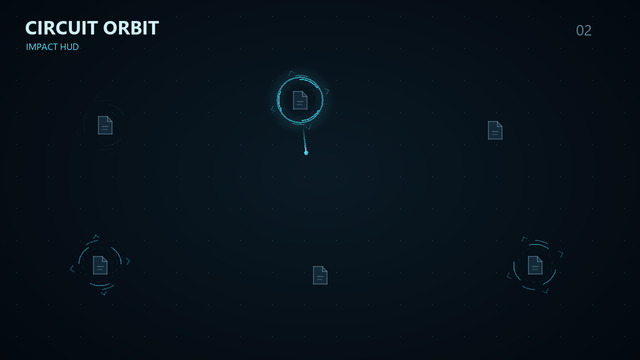
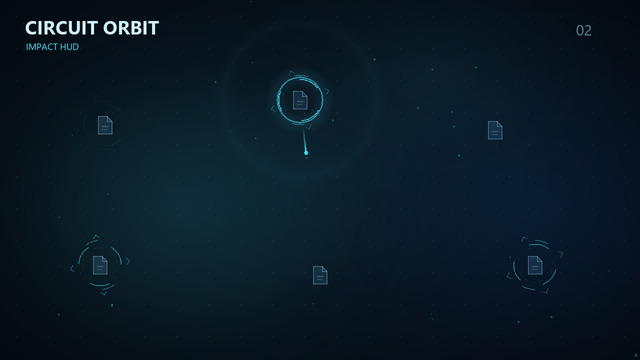
feat: add ambient energy fog particles and impact waves

Changed region(s): [[0.2188, 0.4889, 0.375, 0.6722], [0.8125, 0.55, 0.8438, 0.5806]]

diff --git a/app.js b/app.js
@@ -1,24 +1,33 @@
 (() => {
   'use strict';
-  const E = window.CircuitEngine, canvas = document.querySelector('canvas'), ctx = canvas.getContext('2d');
+  const E = window.CircuitEngine, canvas = document.querySelector('#scene'), ctx = canvas.getContext('2d');
+  const A = window.CircuitAtmosphere, fogCanvas = document.querySelector('#atmosphere'), fogCtx = fogCanvas.getContext('2d');
   const controls = document.querySelector('#controls'), notice = document.querySelector('#notice');
   const params = new URLSearchParams(location.search), preview = params.has('preview'), demo = params.has('demo');
-  const config = { accent: '#49e5ff', speed: 160, glow: 70, trail: 180, circleSize: 100, chargeTime: 1000, persistencePercent: 60, frameRate: 1, monitor: 0, grid: true };
-  const ranges = { speed: [40, 800], glow: [10, 100], trail: [60, 700], circleSize: [40, 200], chargeTime: [300, 2400], persistencePercent: [1, 99], frameRate: [0, 1], monitor: [0, 9] };
+  const config = { accent: '#49e5ff', speed: 160, glow: 70, trail: 180, circleSize: 100, chargeTime: 1000, persistencePercent: 60, frameRate: 1, monitor: 0, grid: true, fogStrength: 45, dustCount: 32, impactStrength: 40 };
+  const ranges = { speed: [40, 800], glow: [10, 100], trail: [60, 700], circleSize: [40, 200], chargeTime: [300, 2400], persistencePercent: [1, 99], frameRate: [0, 1], monitor: [0, 9], fogStrength: [0, 100], dustCount: [0, 70], impactStrength: [0, 100] };
   let rgb = '73,229,255', map = null, system = null, width = 0, height = 0, signature = '', chosen = '';
   let framePending = false, lastDraw = null, nextDraw = 0, collecting = false;
   let collectionTimer = null, collectionDeadline = null, collectionStarted = 0;
+  const field = new A.Atmosphere(1, 1);
+  const makeCanvas = (width, height) => { const image = document.createElement('canvas'); image.width = width; image.height = height; return image; };
+  let sprites = A.createSprites(makeCanvas, config.accent), fogDirty = true, lastFog = -1;
   controls.hidden = !preview;
   const rgba = alpha => `rgba(${rgb},${alpha})`;
   function schedule() {
-    if (system?.icons.length && !framePending) { framePending = true; requestAnimationFrame(frame); }
+    if ((system?.icons.length || field.moving(config)) && !framePending) { framePending = true; requestAnimationFrame(frame); }
   }
   function resize() {
     width = innerWidth; height = innerHeight;
     const dpr = Math.min(devicePixelRatio || 1, 2);
     canvas.width = Math.round(width * dpr); canvas.height = Math.round(height * dpr);
     ctx.setTransform(dpr, 0, 0, dpr, 0, 0);
+    const fogScale = Math.min(1, 960 / width, 540 / height);
+    fogCanvas.width = Math.max(1, Math.round(width * fogScale)); fogCanvas.height = Math.max(1, Math.round(height * fogScale));
+    fogCtx.setTransform(fogScale, 0, 0, fogScale, 0, 0);
+    field.resize(width, height); field.waves = []; fogDirty = true;
     rebuild(true);
+    schedule();
   }
   function chooseBounds() {
     const monitors = map.monitors, all = E.virtualBounds(monitors), dpr = devicePixelRatio || 1;
@@ -37,6 +46,7 @@
     if (!force && nextSignature === signature) return;
     signature = nextSignature;
     system = new E.PulseSystem(icons, { width, height, ...config });
+    field.waves = [];
     ctx.clearRect(0, 0, width, height); lastDraw = null; nextDraw = 0;
     updateStatus(); schedule();
   }
@@ -68,6 +78,9 @@
     else if (name === 'grid') value = value === true || value === 'true';
     else { value = Number(value); if (!Number.isFinite(value)) return; value = E.clamp(value, ...ranges[name]); }
     config[name] = value;
+    if (name === 'accent') sprites = A.createSprites(makeCanvas, config.accent);
+    if (name === 'accent' || name === 'fogStrength') fogDirty = true;
+    if (name === 'impactStrength' && !value) field.waves = [];
     rgb = [1, 3, 5].map(start => parseInt(config.accent.slice(start, start + 2), 16)).join(',');
     document.documentElement.style.setProperty('--accent', config.accent);
     document.documentElement.style.setProperty('--grid-color', rgba(.09));
@@ -77,6 +90,8 @@
     if (name === 'monitor' || name === 'circleSize') rebuild(true);
     else system?.setOptions(config);
     updateStatus(); schedule();
+    if (!config.fogStrength) { fogCtx.clearRect(0, 0, width, height); fogDirty = false; }
+    if (!system?.icons.length && !field.moving(config)) ctx.clearRect(0, 0, width, height);
   }
   window.livelyPropertyListener = apply;
   function finishCollection(message) {
@@ -106,15 +121,24 @@
   addEventListener('keydown', e => { if (e.key.toLowerCase() === 'p') controls.hidden = !controls.hidden; });
   function frame(now) {
     framePending = false;
-    if (!system?.icons.length) { ctx.clearRect(0, 0, width, height); return; }
+    if (!system?.icons.length && !field.moving(config)) { ctx.clearRect(0, 0, width, height); return; }
     const interval = 1000 / (config.frameRate === 0 ? 30 : 60);
     if (now + .4 < nextDraw) { schedule(); return; }
     const elapsed = lastDraw === null ? 0 : now - lastDraw;
     const dt = Math.min(elapsed / 1000, .05);
     lastDraw = now;
     nextDraw = nextDraw && now - nextDraw < interval ? nextDraw + interval : now + interval;
-    system.update(dt); ctx.clearRect(0, 0, width, height);
-    window.CircuitHud.drawScene(ctx, system, config, rgba);
+    field.update(dt);
+    const previousSequence = system?.sequence;
+    system?.update(dt);
+    if (config.impactStrength > 0 && system?.sequence !== previousSequence && system?.current) field.impact(system.current);
+    if (fogDirty || (config.fogStrength > 0 && field.time - lastFog >= .05)) {
+      fogCtx.clearRect(0, 0, width, height);
+      A.drawFog(fogCtx, field, sprites, config.fogStrength); fogDirty = false; lastFog = field.time;
+    }
+    ctx.clearRect(0, 0, width, height);
+    A.drawDetails(ctx, field, sprites, config, rgba);
+    if (system?.icons.length) window.CircuitHud.drawScene(ctx, system, config, rgba);
     schedule();
   }
   if (demo) {

diff --git a/atmosphere.js b/atmosphere.js
@@ -1,0 +1,75 @@
+(function (root) {
+  'use strict';
+  const TAU = Math.PI * 2;
+  class Atmosphere {
+    constructor(width, height) {
+      this.width = width; this.height = height; this.time = 0; this.waves = [];
+      let seed = 9917;
+      const random = () => { seed = (seed * 1664525 + 1013904223) >>> 0; return seed / 4294967296; };
+      this.dust = Array.from({ length: 70 }, () => ({ x: random(), y: random(), depth: random(), phase: random() * TAU, drift: random() * .7 + .3 }));
+    }
+    resize(width, height) { this.width = width; this.height = height; }
+    update(dt) {
+      this.time += Math.max(0, dt);
+      this.waves = this.waves.filter(wave => this.time - wave.started < 1.6);
+    }
+    impact(icon) {
+      this.waves.push({ x: icon.x, y: icon.y, radius: icon.radius, started: this.time });
+      if (this.waves.length > 6) this.waves.shift();
+    }
+    moving(config) { return config.fogStrength > 0 || config.dustCount > 0 || this.waves.length > 0; }
+  }
+  function createSprites(makeCanvas, accent) {
+    const rgb = [1, 3, 5].map(i => parseInt(accent.slice(i, i + 2), 16));
+    const cool = [Math.round(rgb[0] * .55), Math.round(rgb[1] * .55), Math.min(255, Math.round(rgb[2] * 1.12))];
+    function sprite(channels, stops) {
+      const canvas = makeCanvas(256, 256), ctx = canvas.getContext('2d');
+      const gradient = ctx.createRadialGradient(128, 128, 0, 128, 128, 128);
+      for (const [position, alpha] of stops) gradient.addColorStop(position, `rgba(${channels.join(',')},${alpha})`);
+      ctx.fillStyle = gradient; ctx.fillRect(0, 0, 256, 256);
+      return canvas;
+    }
+    const cloudStops = [[0,.28],[.35,.17],[.7,.045],[1,0]];
+    return {
+      cloud: sprite(rgb, cloudStops), cool: sprite(cool, cloudStops),
+      wave: sprite(rgb, [[0,0],[.64,0],[.79,.035],[.87,.24],[.94,.08],[1,0]])
+    };
+  }
+  function drawFog(ctx, field, sprites, strength) {
+    if (strength <= 0) return;
+    const { width: w, height: h, time: t } = field;
+    const clouds = [
+      [sprites.cloud, w * (.27 + Math.sin(t * .028) * .12), h * (.43 + Math.cos(t * .019) * .15), w * .8, h * 1.13, 1],
+      [sprites.cool, w * (.71 + Math.cos(t * .021) * .13), h * (.55 + Math.sin(t * .025) * .18), w * .87, h * 1.2, .85],
+      [sprites.cloud, w * (.5 + Math.sin(t * .016 + 2) * .2), h * (.2 + Math.sin(t * .017 + 3) * .12), w * .6, h * .7, .4]
+    ];
+    for (const [image,x,y,width,height,opacity] of clouds) {
+      ctx.globalAlpha = strength / 100 * opacity;
+      ctx.drawImage(image, x - width / 2, y - height / 2, width, height);
+    }
+    ctx.globalAlpha = 1;
+  }
+  function drawDetails(ctx, field, sprites, config, rgba) {
+    const { width: w, height: h, time: t } = field;
+    const count = Math.min(70, Math.max(0, Math.floor(config.dustCount)));
+    for (let i = 0; i < count; i++) {
+      const p = field.dust[i], speed = 4 + p.depth * 10;
+      const x = ((p.x * w + t * speed * p.drift) % (w + 20)) - 10;
+      const y = ((p.y * h - t * speed * .35) % (h + 20) + h + 20) % (h + 20) - 10;
+      const alpha = (.15 + p.depth * .2) * (.8 + Math.sin(t * .7 + p.phase) * .2);
+      ctx.fillStyle = rgba(alpha);
+      const size = .7 + p.depth * 1.1;
+      ctx.fillRect(x, y, size, size);
+    }
+    if (config.impactStrength > 0) {
+      for (const wave of field.waves) {
+        const progress = Math.max(0, Math.min(1, (t - wave.started) / 1.6));
+        const radius = wave.radius * 1.25 + Math.min(w, h) * .24 * (1 - (1 - progress) ** 2);
+        ctx.globalAlpha = config.impactStrength / 100 * (1 - progress) ** 2;
+        ctx.drawImage(sprites.wave, wave.x - radius, wave.y - radius, radius * 2, radius * 2);
+      }
+      ctx.globalAlpha = 1;
+    }
+  }
+  root.CircuitAtmosphere = { Atmosphere, createSprites, drawFog, drawDetails };
+})(window);

diff --git a/index.html b/index.html
@@ -8,6 +8,7 @@
   <link rel="stylesheet" href="style.css">
 </head>
 <body class="with-grid">
+  <canvas id="atmosphere" aria-hidden="true"></canvas>
   <canvas id="scene" aria-label="Disparos de laser entre displays futuristas dos ícones"></canvas>
   <aside id="notice" hidden></aside>
   <section id="controls" hidden>
@@ -22,12 +23,17 @@
     <label>Quadros por segundo <select id="frameRate"><option value="0">30 FPS</option><option value="1" selected>60 FPS</option></select></label>
     <label>Área <select id="monitor"><option value="0">Automático</option><option value="1">Todos — área estendida</option></select></label>
     <label>Grade sutil <input id="grid" type="checkbox" checked></label>
+    <h2 class="control-section">Ambiente</h2>
+    <label>Névoa de energia (%) <input id="fogStrength" type="range" min="0" max="100" step="5" value="45"></label>
+    <label>Partículas de energia <input id="dustCount" type="range" min="0" max="70" step="1" value="32"></label>
+    <label>Ondas de impacto (%) <input id="impactStrength" type="range" min="0" max="100" step="5" value="40"></label>
     <button id="collectIcons">Coletar posições dos ícones</button>
     <p id="collectStatus" role="status" aria-live="polite"></p>
     <footer id="status">Aguardando mapa da área de trabalho…</footer>
     <button id="hide">Ocultar controles · tecla P para voltar</button>
   </section>
   <script src="engine.js"></script>
+  <script src="atmosphere.js"></script>
   <script src="hud.js"></script>
   <script src="app.js"></script>
 </body>

diff --git a/style.css b/style.css
@@ -4,6 +4,8 @@ html, body { width: 100%; height: 100%; margin: 0; overflow: hidden; }
 body { background: radial-gradient(ellipse at 52% 42%, #091824 0%, #02060c 90%); }
 body.with-grid::before { content: ''; position: fixed; inset: 0; pointer-events: none; background-image: radial-gradient(circle, var(--grid-color, rgba(73,229,255,.09)) .6px, transparent .9px); background-size: 48px 48px; background-position: 0 0; }
 canvas { position: relative; display: block; width: 100%; height: 100%; }
+#atmosphere { position: absolute; inset: 0; pointer-events: none; }
+.control-section { font-size: 11px; font-weight: 400; letter-spacing: 2px; text-transform: uppercase; color: var(--accent); border-top: 1px solid #22404e; padding-top: 17px; margin-top: 23px; }
 [hidden] { display: none !important; }
 #controls { position: fixed; top: 34px; right: 34px; width: 330px; padding: 26px; border: 1px solid #6ecddd26; border-radius: 18px; background: #09131deb; box-shadow: 0 24px 80px #0009; backdrop-filter: blur(20px); color: #d8eaf0; }
 .eyebrow { font-size: 9px; letter-spacing: 2.5px; color: var(--accent); }

diff --git a/tools/Render-Thumbnail.py b/tools/Render-Thumbnail.py
@@ -77,6 +77,13 @@ def path_points(path):
 
 
 def paint(image, command):
+    if command['op'] == 'image':
+        x,y,w,h = command['rect']
+        layer = ASSETS[command['image']].resize((max(1,round(w*S)),max(1,round(h*S))),Image.Resampling.BILINEAR)
+        if command.get('alpha',1) != 1:
+            layer.putalpha(layer.getchannel('A').point(lambda a: round(a*command['alpha'])))
+        image.paste(layer,(round(x*S),round(y*S)),layer)
+        return
     style = command['style']
     d = ImageDraw.Draw(image,'RGBA')
     if command['op'] == 'rect':
@@ -86,7 +93,7 @@ def paint(image, command):
         else:
             _,_,r0,cx,cy,r1 = style['args']
             left,top = max(0,int(x*S)),max(0,int(y*S))
-            right,bottom = min(W*S,math.ceil((x+w)*S)),min(H*S,math.ceil((y+h)*S))
+            right,bottom = min(image.width,math.ceil((x+w)*S)),min(image.height,math.ceil((y+h)*S))
             if right <= left or bottom <= top: return
             layer = Image.new('RGBA',(right-left,bottom-top))
             pixels = layer.load()
@@ -94,7 +101,8 @@ def paint(image, command):
                 for xx in range(right-left):
                     t = (math.hypot((xx+left)/S-cx,(yy+top)/S-cy)-r0)/(r1-r0 or 1)
                     pixels[xx,yy] = interpolate(style['stops'],t)
-            image.paste(layer,(left,top),layer)
+            if image.mode == 'RGBA': image.alpha_composite(layer,(left,top))
+            else: image.paste(layer,(left,top),layer)
         return
     groups = path_points(command['path'])
     if command['op'] == 'fill':
@@ -123,6 +131,11 @@ def paint(image, command):
                 d.line(((x0+(x1-x0)*a)*S,(y0+(y1-y0)*a)*S,(x0+(x1-x0)*b)*S,(y0+(y1-y0)*b)*S),fill=interpolate(style['stops'],(a+b)/2),width=width)
 
 
+ASSETS = []
+for asset in DATA.get('assets',[]):
+    image = Image.new('RGBA',(asset['width']*S,asset['height']*S))
+    for command in asset['commands']: paint(image,command)
+    ASSETS.append(image)
 base = background()
 frames = []
 for i,commands in enumerate(DATA['frames']):

diff --git a/README.md b/README.md
@@ -1,6 +1,6 @@
 # Circuit Orbit · Impact HUD
 
-Versão `2.0.0-beta.3`, branch `codex/impact-hud-v2`. A versão original está preservada na tag Git `v1.0.0`.
+Versão `2.1.0-beta.1`, branch `codex/ambiente-energia`. A versão anterior está preservada na branch `codex/impact-hud-v2` e a versão original na tag Git `v1.0.0`.
 
 ## Animação
 
@@ -12,7 +12,13 @@ A aceleração dura 80 ms em qualquer distância; depois o tiro segue com veloci
 
 A permanência dos displays é uma porcentagem do número de ícones da área escolhida, de 1% a 99%, com padrão de 60%. Com dez ícones e 60%, o primeiro display permanece intacto até o sexto impacto e começa a desaparecer no sétimo. O limite é arredondado para baixo, com mínimo de um ícone: `max(1, floor(total × porcentagem / 100))`. O fade começa no impacto, não durante o voo, e dura 900 ms. Um novo impacto no mesmo ícone reacende seu display.
 
-Com um único ícone, o display recebe o tiro inicial e repete a carga local. Sem ícones no monitor, o fundo fica estático e a animação para.
+Com um único ícone, o display recebe o tiro inicial e repete a carga local. Sem ícones no monitor, a névoa e as partículas continuam animando o fundo. Se também estiverem desligadas, o laço de desenho para.
+
+## Ambiente de energia
+
+Três nuvens difusas em ciano e azul se deslocam lentamente ao fundo. Poucas partículas atravessam a tela em profundidades e velocidades diferentes. Cada impacto em um ícone produz uma onda suave que ilumina uma área maior e desaparece em 1,6 segundo. O ambiente usa a cor escolhida nos efeitos e não altera a rampa, a ordem das visitas nem os marcadores.
+
+Os efeitos são independentes: coloque a intensidade ou a quantidade em zero para desligar névoa, partículas ou ondas. Padrões: névoa 45%, 32 partículas e ondas 40%. Não há núcleo central nem filamentos adicionais.
 
 ## Configurar e abrir
 
@@ -37,12 +43,17 @@ O atalho da v2 é `circuit-orbit-v2://collect`, registrado somente no usuário a
 | Permanência | 1% a 99% do total de ícones; define quando os marcadores antigos começam o fade |
 | Quadros por segundo | Limite de 30 ou 60 FPS; movimento baseado no tempo |
 | Área | Automático, área estendida ou monitor explícito |
+| Névoa de energia | Intensidade de 0% a 100% |
+| Partículas de energia | Quantidade de 0 a 70, em camadas |
+| Ondas de impacto | Intensidade de 0% a 100% |
 
 As alterações da prévia são temporárias; o Lively persiste suas próprias opções. Para simular sem mapa real, abra `index.html?preview&demo`; a tela informa **DEMONSTRAÇÃO**.
 
 ## Instalação no Lively
 
-A v2 deve ficar em uma pasta separada, `Library/wallpapers/circuit-orbit-v2`. A instalação da versão 1 pode ser mantida. Arquivos necessários: `index.html`, `engine.js`, `hud.js`, `app.js`, `style.css`, `LivelyInfo.json`, `LivelyProperties.json`, os comandos de coleta/configuração, `tools/DesktopMap.cs`, `tools/Collect-Desktop.ps1`, `tools/Register-Collector.ps1` e o mapa salvo em `settings/`.
+A v2 deve ficar em uma pasta separada, `Library/wallpapers/circuit-orbit-v2`. A instalação da versão 1 pode ser mantida. Arquivos necessários: `index.html`, `engine.js`, `hud.js`, `atmosphere.js`, `app.js`, `style.css`, `LivelyInfo.json`, `LivelyProperties.json`, `thumbnail.jpg`, `preview.gif`, os comandos de coleta/configuração, `tools/DesktopMap.cs`, `tools/Collect-Desktop.ps1`, `tools/Register-Collector.ps1` e o mapa salvo em `settings/`.
+
+`tools/Install-Theme.ps1 -LibraryPath <biblioteca>` copia somente esses arquivos, confere as cópias, preserva o mapa e os valores das opções existentes e acrescenta os novos controles. Se a v2 estiver ativa, encerra e reabre somente suas instâncias nos mesmos monitores para atualizar também os controles em memória.
 
 O leitor usa retângulos físicos, inclusive coordenadas negativas. O tema projeta cada ícone no monitor escolhido. Em escala mista, a seleção automática precisa de conferência no Lively; existe seleção explícita. A numeração do tema começa pelo principal e pode diferir da numeração do Windows. Uma janela de prévia redimensiona o mapa, portanto não permite confirmar o alinhamento físico com os ícones do desktop.
 
@@ -50,10 +61,11 @@ O leitor usa retângulos físicos, inclusive coordenadas negativas. O tema proje
 
 - `engine.js`: simulação independente do Canvas, sorteio, aceleração, fases e vida dos displays.
 - `hud.js`: desenho dos arcos, carga, feixe e impacto.
+- `atmosphere.js`: névoa, partículas ambientais e ondas de impacto.
 - `app.js`: propriedades do Lively, projeção dos monitores, coleta manual e agendamento de quadros.
-- Fundo e grade são CSS estático. Não há reconstrução da grade ou gradiente de tela inteira em cada quadro do Canvas.
+- Fundo base e grade são CSS estático. A névoa reutiliza três texturas de 256×256 em uma camada limitada a 960×540 pixels, atualizada no máximo 20 vezes por segundo. Não há reconstrução de gradientes de tela inteira em cada quadro.
 - Não há histórico crescente de trilhas: somente os displays recentes, partículas curtas e um tiro ativo são mantidos.
-- O limite de FPS não altera a velocidade da simulação. Monitores sem ícones não mantêm um laço de desenho.
+- O limite de FPS não altera a velocidade da simulação. Há no máximo 70 partículas ambientais e seis ondas simultâneas; as ondas expiram. Um monitor sem ícones e sem ambiente ativo não mantém um laço de desenho.
 
 Essas alterações reduzem trabalho desnecessário identificado na v1. O ganho real de CPU/GPU ainda precisa ser medido. `ANALISE_DE_DESEMPENHO.md` é o relatório histórico da v1, não uma medição desta versão.
 
@@ -66,6 +78,7 @@ Para regenerar: execute `node tools/Build-Thumbnail.cjs`, depois `python tools/R
 ```
 node tests/engine.test.cjs
 node tests/app.test.cjs
+node tests/atmosphere.test.cjs
 ```
 
 Os testes cobrem impacto antes de acender o HUD, carga, aceleração, destinos sem autorrepetição, desvanecimento, limites de objetos, monitores vazios/únicos, coordenadas negativas, limites de FPS e coleta pontual. A validação no navegador e os limites da validação física estão em `VALIDACAO.md`.

diff --git a/VALIDACAO.md b/VALIDACAO.md
@@ -1,8 +1,8 @@
-# Validação — Impact HUD 2.0.0-beta.3
+# Validação — Impact HUD 2.1.0-beta.1
 
 ## Testes locais
 
-`node tests/engine.test.cjs` e `node tests/app.test.cjs` passaram.
+`node tests/engine.test.cjs`, `node tests/app.test.cjs` e `node tests/atmosphere.test.cjs` passaram.
 
 - HUD inexistente antes do primeiro impacto e ativado somente na chegada.
 - Tiro em linha reta, com rampa fixa de 80 ms seguida de velocidade constante. Na velocidade 160, percursos de 300 e 2.400 px avançam os mesmos 76,8 px nos primeiros 100 ms.
@@ -14,7 +14,8 @@
 - Casos sem ícones e com apenas um ícone.
 - Projeção com monitor em coordenadas negativas.
 - Agendamento de 30/60 FPS sob uma fonte simulada de 165 Hz, mantendo o tempo de movimento.
-- Monitor vazio sem redesenho contínuo e sem consulta periódica ao mapa.
+- Monitor vazio continua exibindo o ambiente quando habilitado; sem ambiente ativo, para de redesenhar. Não há consulta periódica ao mapa.
+- Cache de três texturas mantido após mil desenhos da névoa, quantidade configurável de partículas, limite de seis ondas e descarte após 1,6 segundo.
 - Coleta manual com espera limitada e encerramento da espera em sucesso ou cancelamento.
 
 ## Navegador e equipamento
@@ -29,4 +30,10 @@ O relatório `ANALISE_DE_DESEMPENHO.md` refere-se à v1. Não há comparação q
 
 ## Miniatura do catálogo
 
-`thumbnail.jpg` (640×360) e `preview.gif` (640×360, 120 quadros a 20 FPS, seis segundos, loop contínuo) gerados com os comandos do motor/HUD reais e ícones genéricos. Quadros inspecionados visualmente e todos os quadros do GIF decodificados para conferir integridade. Um pequeno dissolve suaviza a volta do loop. Os campos `Thumbnail` e `Preview` seguem a configuração dos outros temas locais. Não houve mudança no fundo ou na animação de execução do wallpaper.
+`thumbnail.jpg` (640×360) e `preview.gif` (640×360, 120 quadros a 20 FPS, seis segundos, loop contínuo) gerados com os comandos do motor/HUD e do ambiente, com ícones genéricos. A miniatura desta versão inclui névoa, partículas e ondas. Um pequeno dissolve suaviza a volta do loop. Os campos `Thumbnail` e `Preview` seguem a configuração dos outros temas locais.
+
+## Conferência do novo ambiente
+
+Prévia no Chrome com o mapa real de 90 ícones: névoa e onda de impacto visíveis, com controles separados para os três efeitos. Controles desligados e restaurados aos padrões; sem erros/avisos no console observado. O custo real de CPU/GPU da nova camada ainda não foi medido.
+
+A instalação conferiu os quinze arquivos de execução, preservou as opções existentes e recarregou uma instância ativa da v2 no Lively. O mapa salvo foi preservado e os novos controles foram acrescentados ao arquivo de propriedades. A miniatura de seis segundos foi regenerada e todos os seus 120 quadros foram decodificados para conferir integridade. O servidor temporário de prévia foi encerrado.
